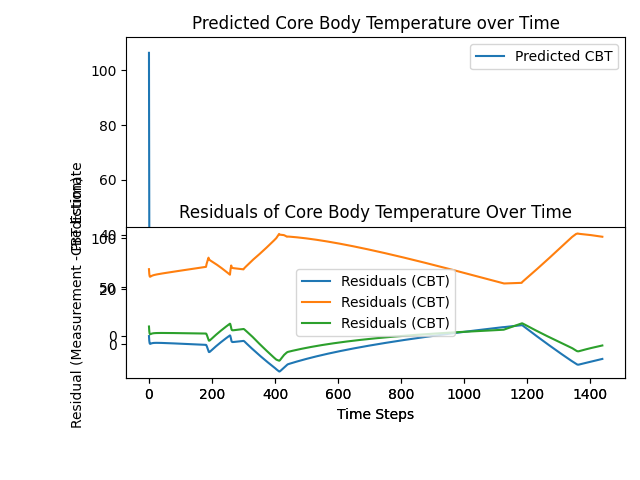
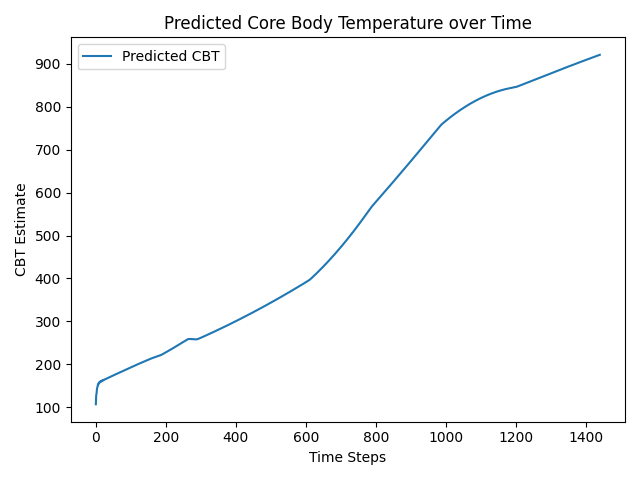
created separate file for graphing sleep

diff --git a/CoreBodyTemp/my_kalman_filter.py b/CoreBodyTemp/my_kalman_filter.py
@@ -37,12 +37,12 @@ import pandas as pd
 from filterpy.kalman import predict
 from filterpy.common import Q_discrete_white_noise
 from filterpy.kalman import KalmanFilter
-sys.path.append("/home/asyaakkus/Senior-Project-Modeling-Noah/SleepCycle")
+sys.path.append("../SleepCycle")
 from data_processing import process_categorical_data, process_numerical_data, calc_R
 
 
 #extract heart rate data 
-home_dir = "/home/asyaakkus/Senior-Project-Modeling-Noah/data/"
+home_dir = "F:/FALL 2024/Senior-Project-Modeling-Noah/data"
 
 '''
 we find the P matrix by taking the variance of each of the arrays at consistent time stamps. for now, we will just focus on 
@@ -63,9 +63,9 @@ RR last timestamp:  [Timestamp('2024-09-05 08:27:27-0400', tz='UTC-04:00') 11.0]
 
 '''
 #preprocess the data 
-resp_rate_csv_string = "data/RespiratoryRate.csv"
-heart_rate_csv_string = "data/HeartRate.csv"
-basal_rate_csv_string = "data/BasalEnergyBurned.csv"
+resp_rate_csv_string = "F:/FALL 2024/Senior-Project-Modeling-Noah/data/RespiratoryRate.csv"
+heart_rate_csv_string = "F:/FALL 2024/Senior-Project-Modeling-Noah/data/HeartRate.csv"
+basal_rate_csv_string = "F:/FALL 2024/Senior-Project-Modeling-Noah/data/BasalEnergyBurned.csv"
 col_interest = 'start'
 processed_respiratory = process_numerical_data(resp_rate_csv_string, col_interest)
 processed_heart_rate = process_numerical_data(heart_rate_csv_string, col_interest)
@@ -157,6 +157,15 @@ def rotation_matrix_4d_xy_xw(theta_xy, theta_xw):
 R = calc_R([processed_basal_rate, processed_heart_rate, processed_respiratory])
 print(R)
 
+# finding variance for R
+
+'''
+var_bmr = processed_basal_rate.var()
+var_rr = processed_respiratory.var()
+var_hr = processed_heart_rate.var()
+
+R = np.diag([var_bmr, var_hr, var_rr])'''
+
 # Two options for Q (process noise covariance)
 Q_filterpy = Q_discrete_white_noise(dim=4, dt=1., var=7)
 Q_manual = np.array([
@@ -190,8 +199,8 @@ omega = np.pi/6
 # Kalman filter loop: Predict and update steps | here I am also finding the residuals inside the Kalman filter loop
 def run_kalman_filter(X, P, R, Q, F, H, zs, n_steps):
     kf = initialize_kalman_filter(X, P, R, Q, F, H)
-    F_rotation = make_F(omega)
-    kf_rot = initialize_kalman_filter(X, P, R, Q, F_rotation, H)
+    #F_rotation = make_F(omega)
+    #kf_rot = initialize_kalman_filter(X, P, R, Q, F_rotation, H)
     # Arrays to store state estimates and covariances
     xs, cov = [], []
     xs_rot = []
@@ -203,13 +212,13 @@ def run_kalman_filter(X, P, R, Q, F, H, zs, n_steps):
         #kf_rot.F = rotation_matrix_4d_xy_xw(theta_xy, theta_xw)
 
         kf.predict()  # Predict the next state
-        kf_rot.predict()
+        #kf_rot.predict()
         z = zs[i]     # Get the measurements for this time step
         kf.update(z)  # Update with the measurement
-        kf_rot.update(z)
+        #kf_rot.update(z)
 
         xs.append(kf.x)  # Store the state estimate
-        xs_rot.append(kf_rot.x)
+        #xs_rot.append(kf_rot.x)
         cov.append(kf.P) # Store the covariance matrix
 
         # Calculate residuals (difference between measurement and prediction)
@@ -220,13 +229,13 @@ def run_kalman_filter(X, P, R, Q, F, H, zs, n_steps):
     # Convert results to numpy arrays for easy handling
     xs = np.array(xs)
     cov = np.array(cov)
-    xs_rot = np.array(xs_rot)
+    #xs_rot = np.array(xs_rot)
     residuals = np.array(residuals) 
 
-    return xs_rot, cov, residuals
+    return xs, cov, residuals
 
 # Run the Kalman filter with your data
-xs, Ps, residuals = run_kalman_filter(X, P, R, Q_filterpy, F, H, zs, n_steps)
+xs, Ps, residuals = run_kalman_filter(X, P, R, Q_manual, F, H, zs, n_steps)
 
 # xs now contains state estimates, including core body temperature estimates over time
 print(type(xs))
@@ -266,5 +275,5 @@ plt.legend()
 
 # Show the final plot with both graphs
 plt.tight_layout()
-plt.savefig('my_plot_kal_rot_with_residuals.png')
+plt.savefig('my_plot_kal_with_residuals.png')
 plt.show()
